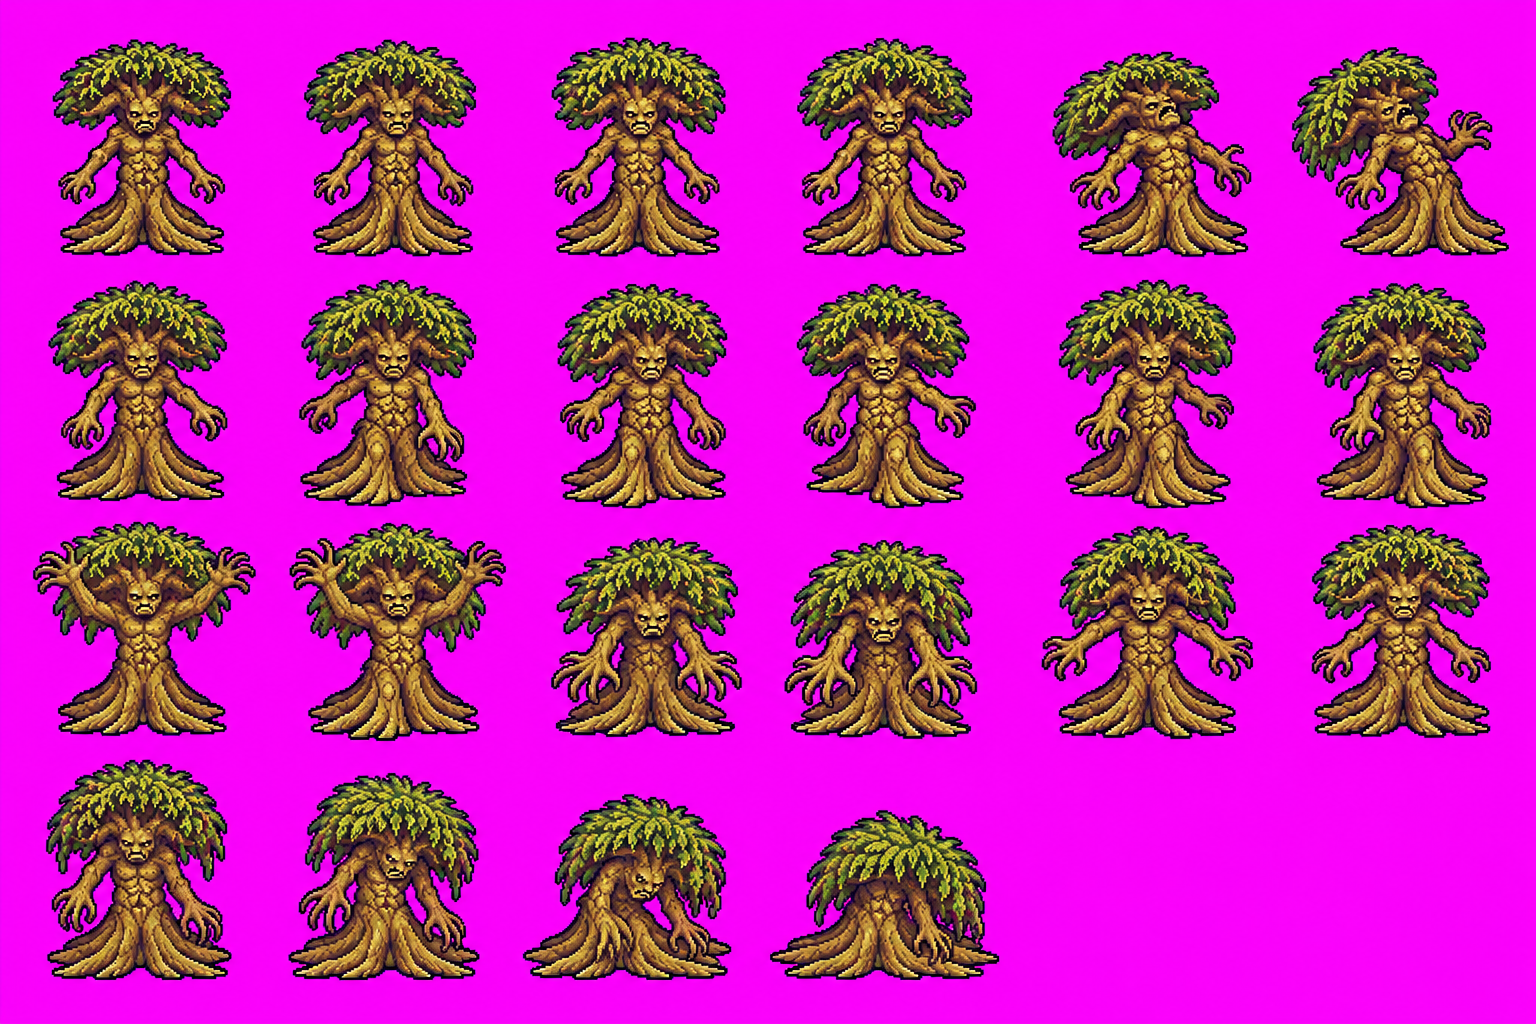
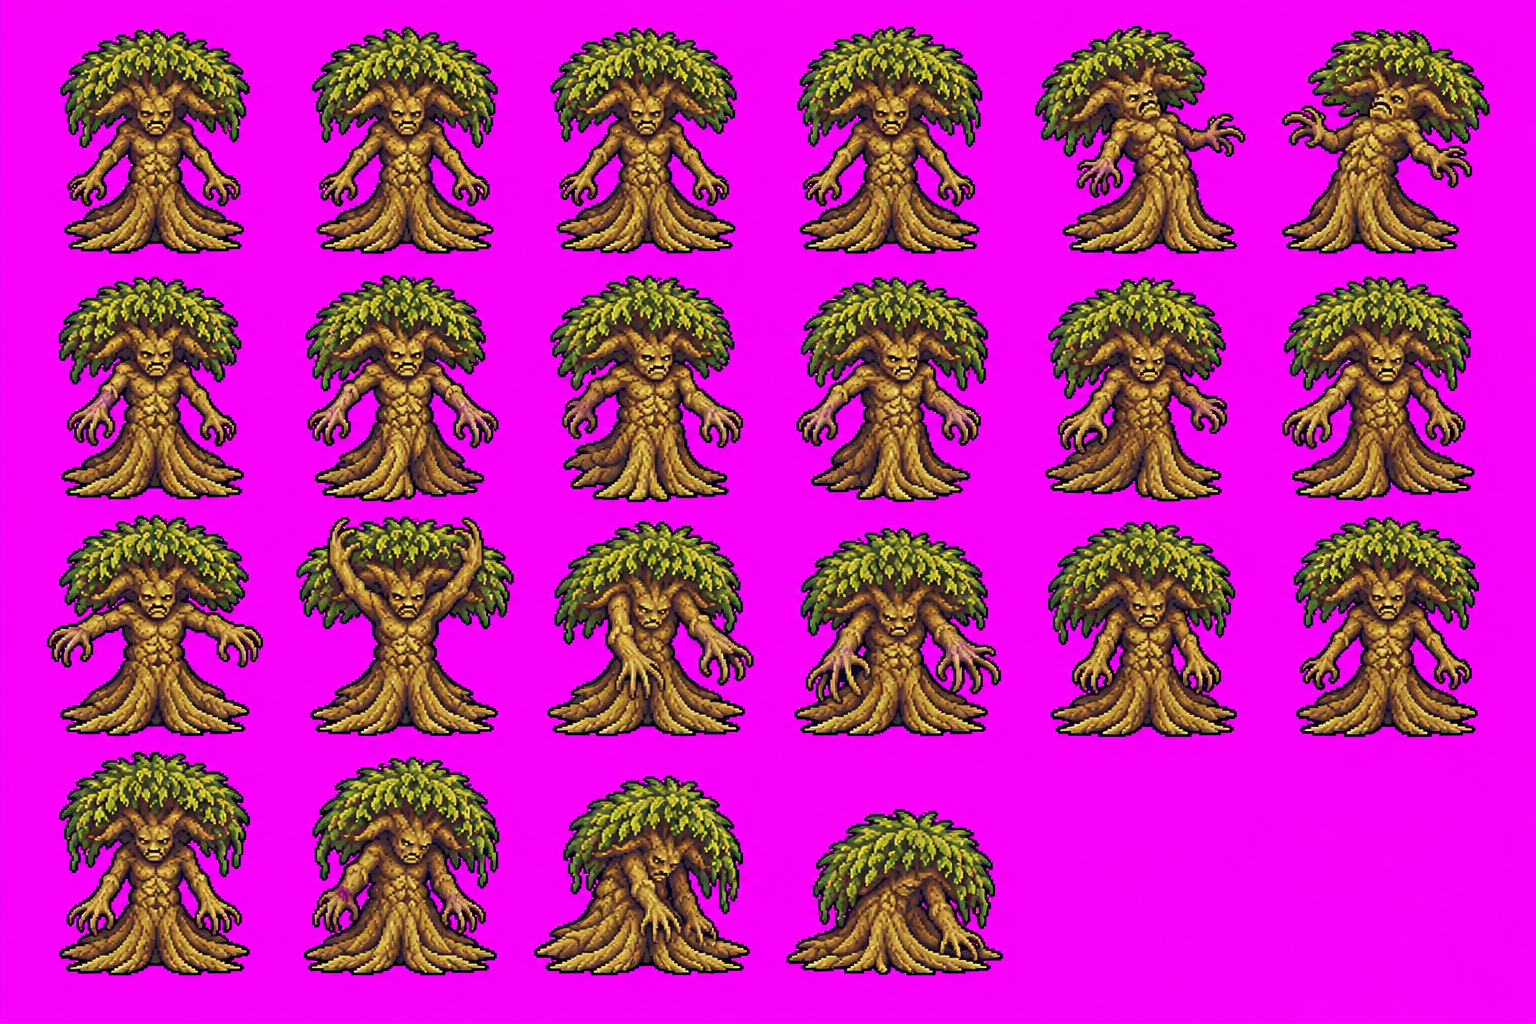
art(co_moc_thu_nhan): chọn tờ A lượt ba giữ hướng tốt hơn (#1030)

diff --git a/art/src/beast-anim/co_moc_thu_nhan/NGUON.md b/art/src/beast-anim/co_moc_thu_nhan/NGUON.md
@@ -15,8 +15,8 @@ Loài `co_moc_thu_nhan` (Cổ Mộc Thụ Nhân), họ `plant`, khung game 128×
 
 ## toA
 
[1 lines of base64/hex data omitted]
-- Công cụ: image_gen; model: unknown (công cụ sinh ảnh không công bố); seed: unknown (công cụ sinh ảnh không công bố); số lượt: 1; phiên: ao-desktop.
[1 lines of base64/hex data omitted]
+- Công cụ: image_gen; model: unknown (công cụ sinh ảnh không công bố); seed: unknown (công cụ sinh ảnh không công bố); số lượt: 3; phiên: ao-desktop.
[1 lines of base64/hex data omitted]
 - Ảnh gốc giữ nguyên byte; không resize / sửa pixel.
 - Mức kiểm: **pass** (khối hướng: s pass).
@@ -55,7 +55,7 @@ Loài `co_moc_thu_nhan` (Cổ Mộc Thụ Nhân), họ `plant`, khung game 128×
 ```text
 LỖI: turnaround — die chưa đổ thấp hoàn toàn; lượt 3 tốt nhất làm ref kỹ thuật (mắt)
 LỖI: turnaround — toD/ne CHẶN sau 3 lượt: chọn candidates/toD-attempt3.png; H1 C6 và H3 C1,C4 lộ mặt; không đặt toD.png trong thư mục chính. Lượt 1 thiếu một khung die; lượt 2 lộ mặt nhiều hơn. (mắt)
-LỖI: toA — s — hurt hơi xoay thân sang phải (mắt)
+LỖI: toA — s — chọn lượt 3: hurt giữ mặt trước tốt hơn; die C4 hơi xoay phải nhưng vẫn rũ theo trục (mắt)
 LỖI: toB — se — attack C6 gần chính diện; hurt ngả mạnh (mắt)
 LỖI: toC — e — một số khung hơi chếch trước, hurt ngả mạnh; chọn lượt 3 tốt nhất (mắt)
 ```
